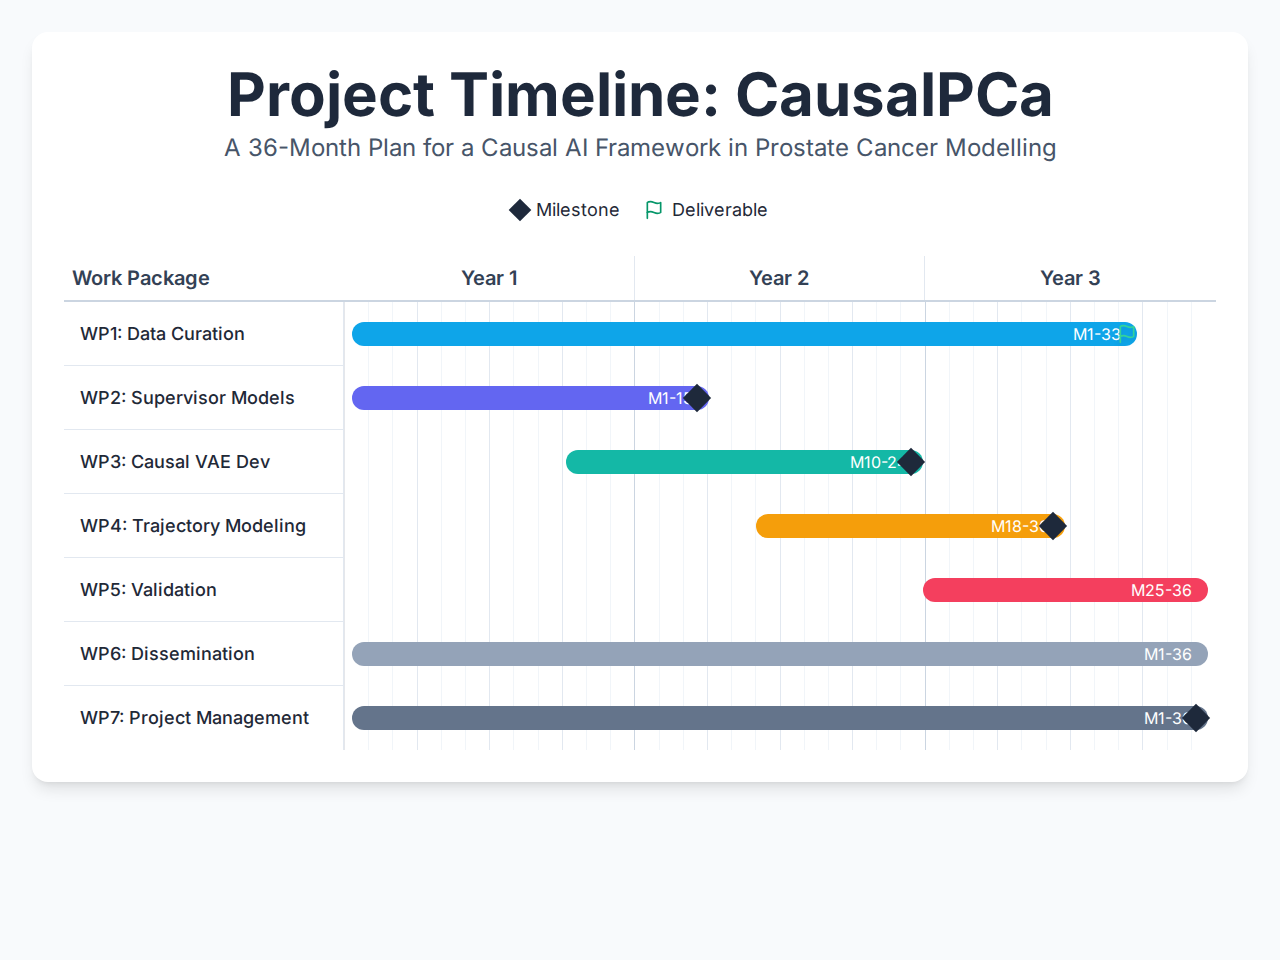
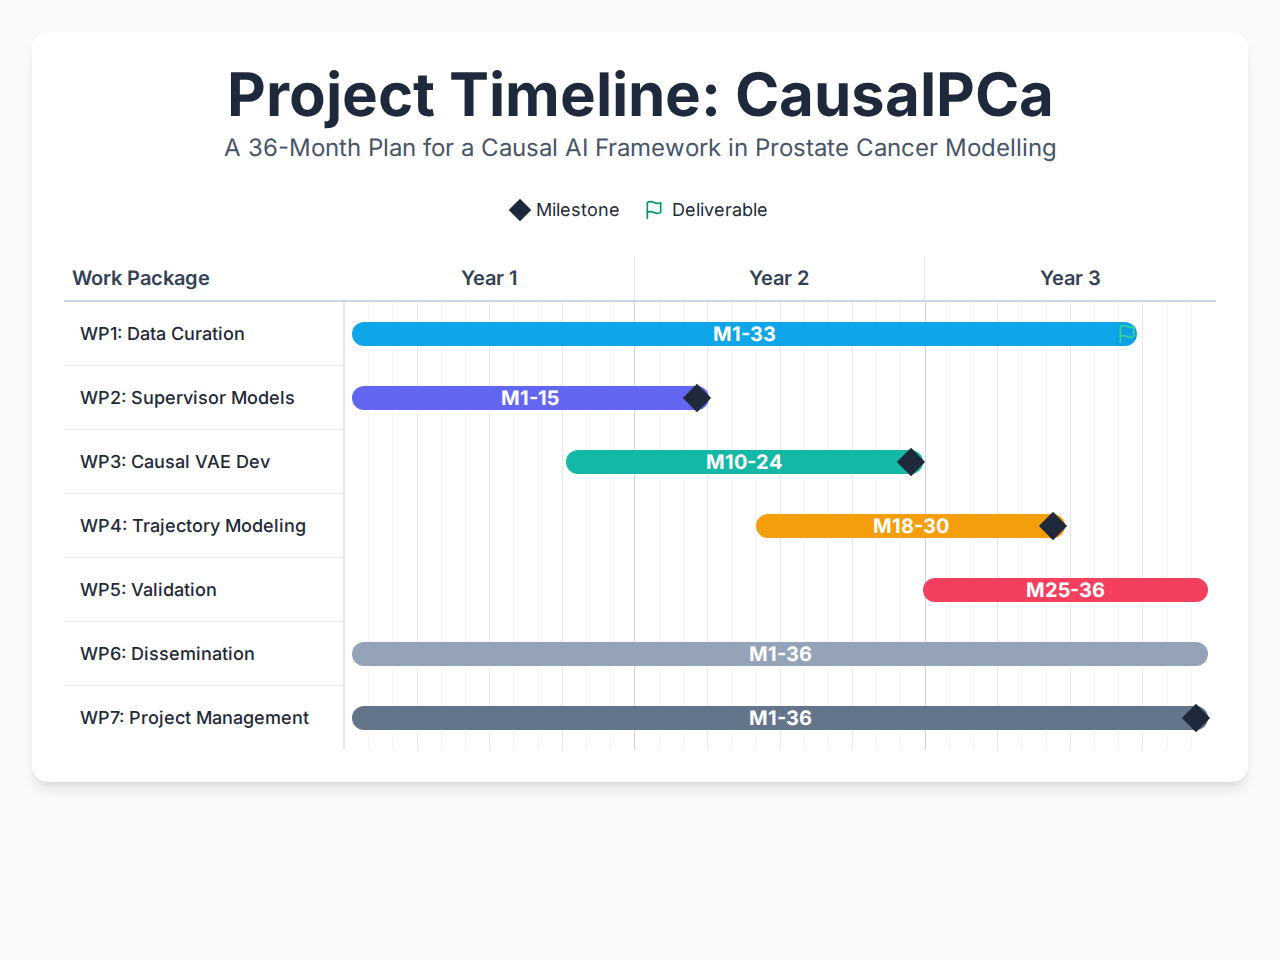
Refine grant proposal and improve figures
This commit addresses several user requests to refine an EU Horizon Pathfinder grant proposal and its accompanying figures.

Key changes to `main_horizon.tex`:
- Adds a comprehensive abstract to the beginning of the document.
- Clarifies that the AI framework is designed to support multiple tumour boards across different institutions.
- Restructures the 'Implementation' section by fusing the Work Package, Deliverables, and Milestones tables into a more cohesive and readable format.
- Removes redundant columns (Lead, Start, End) from the tables.
- Adds introductory text between tables to improve the document's flow.
- Elaborates on verifiable milestones with specific, quantifiable metrics as requested.
- Corrects a broken table reference.

Key changes to HTML figures:
- Removes the title and header from `ml.html` to fix a page layout issue.
- Increases the font size and centers the text on the task bars in `gantt.html` to improve readability and prevent text from being occluded in the generated PNG.

diff --git a/gantt.html b/gantt.html
@@ -119,8 +119,8 @@
                 <div class="relative text-base text-white">
                     <!-- WP1 Bar -->
                     <div class="p-2 h-16 flex items-center has-tooltip">
-                        <div class="task-bar bg-sky-500 rounded-full h-6 w-full relative flex items-center justify-end pr-4" style="width: calc(33 / 36 * 100%);">
-                            <span>M1-33</span>
+                        <div class="task-bar bg-sky-500 rounded-full h-6 w-full relative flex items-center justify-center" style="width: calc(33 / 36 * 100%);">
+                            <span class="text-xl font-bold">M1-33</span>
                             <div class="absolute tooltip bg-slate-800 text-white text-sm rounded py-1 px-2 -top-8 left-1/2 -translate-x-1/2 whitespace-nowrap">
                                 WP1: Data Curation & Harmonization (Months 1-33)
                             </div>
@@ -133,8 +133,8 @@
                     </div>
                     <!-- WP2 Bar -->
                     <div class="p-2 h-16 flex items-center has-tooltip">
-                        <div class="task-bar bg-indigo-500 rounded-full h-6 w-full relative flex items-center justify-end pr-4" style="width: calc(15 / 36 * 100%);">
-                            <span>M1-15</span>
+                        <div class="task-bar bg-indigo-500 rounded-full h-6 w-full relative flex items-center justify-center" style="width: calc(15 / 36 * 100%);">
+                            <span class="text-xl font-bold">M1-15</span>
                              <div class="absolute tooltip bg-slate-800 text-white text-sm rounded py-1 px-2 -top-8 left-1/2 -translate-x-1/2 whitespace-nowrap">
                                 WP2: Foundational Supervisor Model Training (Months 1-15)
                             </div>
@@ -147,8 +147,8 @@
                     </div>
                     <!-- WP3 Bar -->
                     <div class="p-2 h-16 flex items-center has-tooltip">
-                        <div class="task-bar bg-teal-500 rounded-full h-6 w-full relative flex items-center justify-end pr-4" style="margin-left: calc(9 / 36 * 100%); width: calc(15 / 36 * 100%);">
-                           <span>M10-24</span>
+                        <div class="task-bar bg-teal-500 rounded-full h-6 w-full relative flex items-center justify-center" style="margin-left: calc(9 / 36 * 100%); width: calc(15 / 36 * 100%);">
+                           <span class="text-xl font-bold">M10-24</span>
                             <div class="absolute tooltip bg-slate-800 text-white text-sm rounded py-1 px-2 -top-8 left-1/2 -translate-x-1/2 whitespace-nowrap">
                                 WP3: Causal VAE Development (Months 10-24)
                             </div>
@@ -161,8 +161,8 @@
                     </div>
                     <!-- WP4 Bar -->
                     <div class="p-2 h-16 flex items-center has-tooltip">
-                        <div class="task-bar bg-amber-500 rounded-full h-6 w-full relative flex items-center justify-end pr-4" style="margin-left: calc(17 / 36 * 100%); width: calc(13 / 36 * 100%);">
-                           <span>M18-30</span>
+                        <div class="task-bar bg-amber-500 rounded-full h-6 w-full relative flex items-center justify-center" style="margin-left: calc(17 / 36 * 100%); width: calc(13 / 36 * 100%);">
+                           <span class="text-xl font-bold">M18-30</span>
                             <div class="absolute tooltip bg-slate-800 text-white text-sm rounded py-1 px-2 -top-8 left-1/2 -translate-x-1/2 whitespace-nowrap">
                                 WP4: Temporal Trajectory Modeling (Months 18-30)
                             </div>
@@ -175,8 +175,8 @@
                     </div>
                      <!-- WP5 Bar -->
                     <div class="p-2 h-16 flex items-center has-tooltip">
-                        <div class="task-bar bg-rose-500 rounded-full h-6 w-full relative flex items-center justify-end pr-4" style="margin-left: calc(24 / 36 * 100%); width: calc(12 / 36 * 100%);">
-                           <span>M25-36</span>
+                        <div class="task-bar bg-rose-500 rounded-full h-6 w-full relative flex items-center justify-center" style="margin-left: calc(24 / 36 * 100%); width: calc(12 / 36 * 100%);">
+                           <span class="text-xl font-bold">M25-36</span>
                             <div class="absolute tooltip bg-slate-800 text-white text-sm rounded py-1 px-2 -top-8 left-1/2 -translate-x-1/2 whitespace-nowrap">
                                 WP5: Validation and Clinical Integration (Months 25-36)
                             </div>
@@ -184,8 +184,8 @@
                     </div>
                     <!-- WP6 Bar -->
                     <div class="p-2 h-16 flex items-center has-tooltip">
-                        <div class="task-bar bg-slate-400 rounded-full h-6 w-full relative flex items-center justify-end pr-4">
-                           <span>M1-36</span>
+                        <div class="task-bar bg-slate-400 rounded-full h-6 w-full relative flex items-center justify-center">
+                           <span class="text-xl font-bold">M1-36</span>
                             <div class="absolute tooltip bg-slate-800 text-white text-sm rounded py-1 px-2 -top-8 left-1/2 -translate-x-1/2 whitespace-nowrap">
                                 WP6: Dissemination, Communication, and Exploitation (Months 1-36)
                             </div>
@@ -193,8 +193,8 @@
                     </div>
                      <!-- WP7 Bar -->
                     <div class="p-2 h-16 flex items-center has-tooltip">
-                        <div class="task-bar bg-slate-500 rounded-full h-6 w-full relative flex items-center justify-end pr-4">
-                            <span>M1-36</span>
+                        <div class="task-bar bg-slate-500 rounded-full h-6 w-full relative flex items-center justify-center">
+                            <span class="text-xl font-bold">M1-36</span>
                             <div class="absolute tooltip bg-slate-800 text-white text-sm rounded py-1 px-2 -top-8 left-1/2 -translate-x-1/2 whitespace-nowrap">
                                 WP7: Project Management (Months 1-36)
                             </div>

diff --git a/main_horizon.tex b/main_horizon.tex
@@ -285,27 +285,27 @@ We are committed to maximizing the impact of this project through a comprehensiv
 
 \section{Implementation}
 
-\subsection{Work Packages, Deliverables, and Milestones}
-The project will be executed over 36 months, organized into seven interconnected Work Packages (WPs). The relationships and timing are visualized in the Gantt chart (Figure \ref{fig:gantt}), which is presented alongside the list of project deliverables to provide a comprehensive overview of the project timeline and its key outputs. The following tables provide a detailed breakdown of the work plan.
+\subsection{Work Plan, Timeline, and Deliverables}
+The project is structured into seven interconnected Work Packages (WPs), detailed in Table~\ref{tab:wp_descriptions}. The overall project timeline is visualized in the Gantt chart in Figure~\ref{fig:gantt}, providing a clear roadmap for the project's execution over its 36-month duration.
 
 \begin{table}[H]
     \centering
     \caption{Work Package Descriptions and Person-Month Allocation.}
     \label{tab:wp_descriptions}
-    \small % Use smaller font for the table
-    \begin{tabular}{lp{4.5cm}lrrr}
+    \small
+    \begin{tabular}{lp{9cm}r}
         \toprule
-        \textbf{WP No.} & \textbf{Work Package Title} & \textbf{Lead} & \textbf{Start} & \textbf{End} & \textbf{Person-Months} \\
+        \textbf{WP No.} & \textbf{Work Package Title} & \textbf{Person-Months} \\
         \midrule
-        WP1 & Data Curation and Harmonization & Applicant & M1 & M33 & 30 \\
-        WP2 & Foundational Supervisor Model Training & Applicant & M1 & M15 & 50 \\
-        WP3 & Causal VAE Development & Applicant & M10 & M24 & 60 \\
-        WP4 & Temporal Trajectory Modeling & Applicant & M18 & M30 & 60 \\
-        WP5 & Validation and Clinical Integration & Applicant & M25 & M36 & 30 \\
-        WP6 & Dissemination, Communication, and Exploitation & Applicant & M1 & M36 & 10 \\
-        WP7 & Project Management & Applicant & M1 & M36 & 10 \\
+        WP1 & Data Curation and Harmonization & 30 \\
+        WP2 & Foundational Supervisor Model Training & 50 \\
+        WP3 & Causal VAE Development & 60 \\
+        WP4 & Temporal Trajectory Modeling & 60 \\
+        WP5 & Validation and Clinical Integration & 30 \\
+        WP6 & Dissemination, Communication, and Exploitation & 10 \\
+        WP7 & Project Management & 10 \\
         \midrule
-        \multicolumn{5}{l}{\textbf{Total}} & \textbf{250} \\
+        \multicolumn{2}{l}{\textbf{Total}} & \textbf{250} \\
         \bottomrule
     \end{tabular}
 \end{table}
@@ -313,32 +313,36 @@ The project will be executed over 36 months, organized into seven interconnected
 \begin{figure}[H]
     \centering
     \includegraphics[width=\textwidth]{gantt.png}
-    \caption{Project Gantt Chart illustrating the timeline for Work Packages, Deliverables, and Milestones.}
+    \caption{Project Gantt Chart illustrating the timeline for Work Packages, Deliverables (D), and Milestones (M).}
     \label{fig:gantt}
 \end{figure}
+
+To monitor progress and ensure the timely completion of project objectives, a set of key deliverables is defined, as outlined in Table~\ref{tab:deliverables}. These outputs represent the tangible results of each work package.
 
 \begin{table}[H]
     \centering
     \caption{List of Project Deliverables.}
     \label{tab:deliverables}
     \small
-    \begin{tabular}{lp{4.5cm}lcccr}
+    \begin{tabular}{lp{5.5cm}lccr}
         \toprule
-        \textbf{Del. No.} & \textbf{Deliverable Name} & \textbf{WP} & \textbf{Lead} & \textbf{Type} & \textbf{Dissem.} & \textbf{Due} \\
+        \textbf{Del. No.} & \textbf{Deliverable Name} & \textbf{WP} & \textbf{Type} & \textbf{Dissem.} & \textbf{Due} \\
         \midrule
-        D1.1 & Curated, harmonized dataset (initial) & WP1 & App. & Data & CO & M12 \\
-        D2.1 & Validated supervisor models & WP2 & App. & Code & PU & M15 \\
-        D3.1 & Disentangled VAE models & WP3 & App. & Code & PU & M24 \\
-        D4.1 & Trained Neural Jump ODE model & WP4 & App. & Code & PU & M30 \\
-        D5.1 & Final validation report & WP5 & App. & R & PU & M36 \\
-        D6.1 & Project website and open-source repo & WP6 & App. & Web & PU & M3 \\
-        D6.2 & Mid-term dissemination report & WP6 & App. & R & PU & M18 \\
-        D6.3 & Final dissemination \& exploitation plan & WP6 & App. & R & PU & M36 \\
-        D7.1 & Project management handbook & WP7 & App. & R & CO & M2 \\
+        D1.1 & Curated, harmonized dataset (initial) & WP1 & Data & CO & M12 \\
+        D2.1 & Validated supervisor models & WP2 & Code & PU & M15 \\
+        D3.1 & Disentangled VAE models & WP3 & Code & PU & M24 \\
+        D4.1 & Trained Neural Jump ODE model & WP4 & Code & PU & M30 \\
+        D5.1 & Final validation report & WP5 & R & PU & M36 \\
+        D6.1 & Project website and open-source repo & WP6 & Web & PU & M3 \\
+        D6.2 & Mid-term dissemination report & WP6 & R & PU & M18 \\
+        D6.3 & Final dissemination \& exploitation plan & WP6 & R & PU & M36 \\
+        D7.1 & Project management handbook & WP7 & R & CO & M2 \\
         \bottomrule
-        \multicolumn{7}{p{14cm}}{\footnotesize \textbf{Type:} R=Report, Data=Dataset, Code=Software, Web=Website. \textbf{Dissem:} PU=Public, CO=Confidential.}
+        \multicolumn{6}{p{13cm}}{\footnotesize \textbf{Type:} R=Report, Data=Dataset, Code=Software, Web=Website. \textbf{Dissem:} PU=Public, CO=Confidential.}
     \end{tabular}
 \end{table}
+
+Complementing the deliverables, the project's progress will be assessed against the verifiable milestones listed in Table~\ref{tab:milestones}. These milestones serve as critical checkpoints to validate the achievement of the project's scientific and technical goals.
 
 \begin{table}[H]
     \centering
